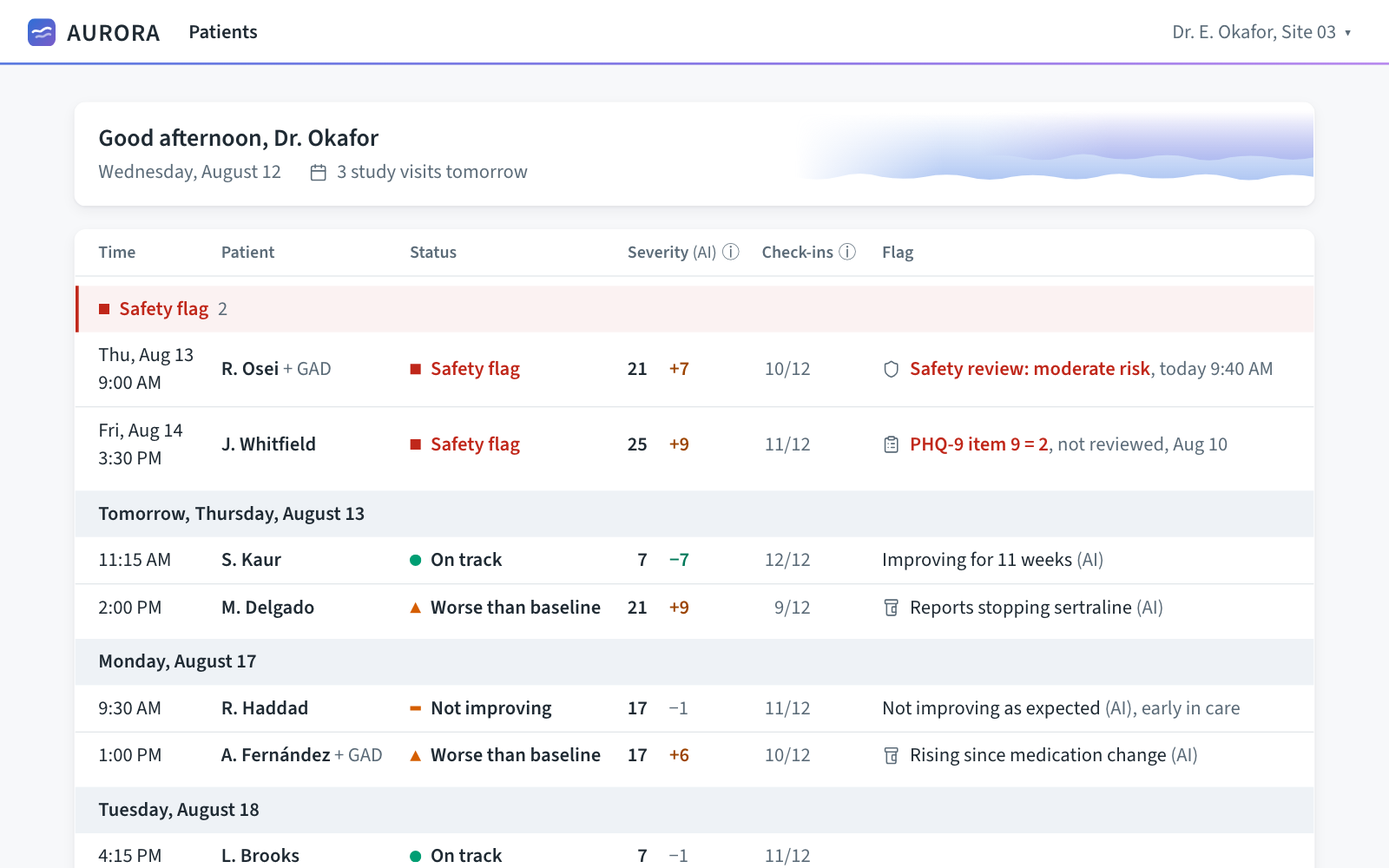
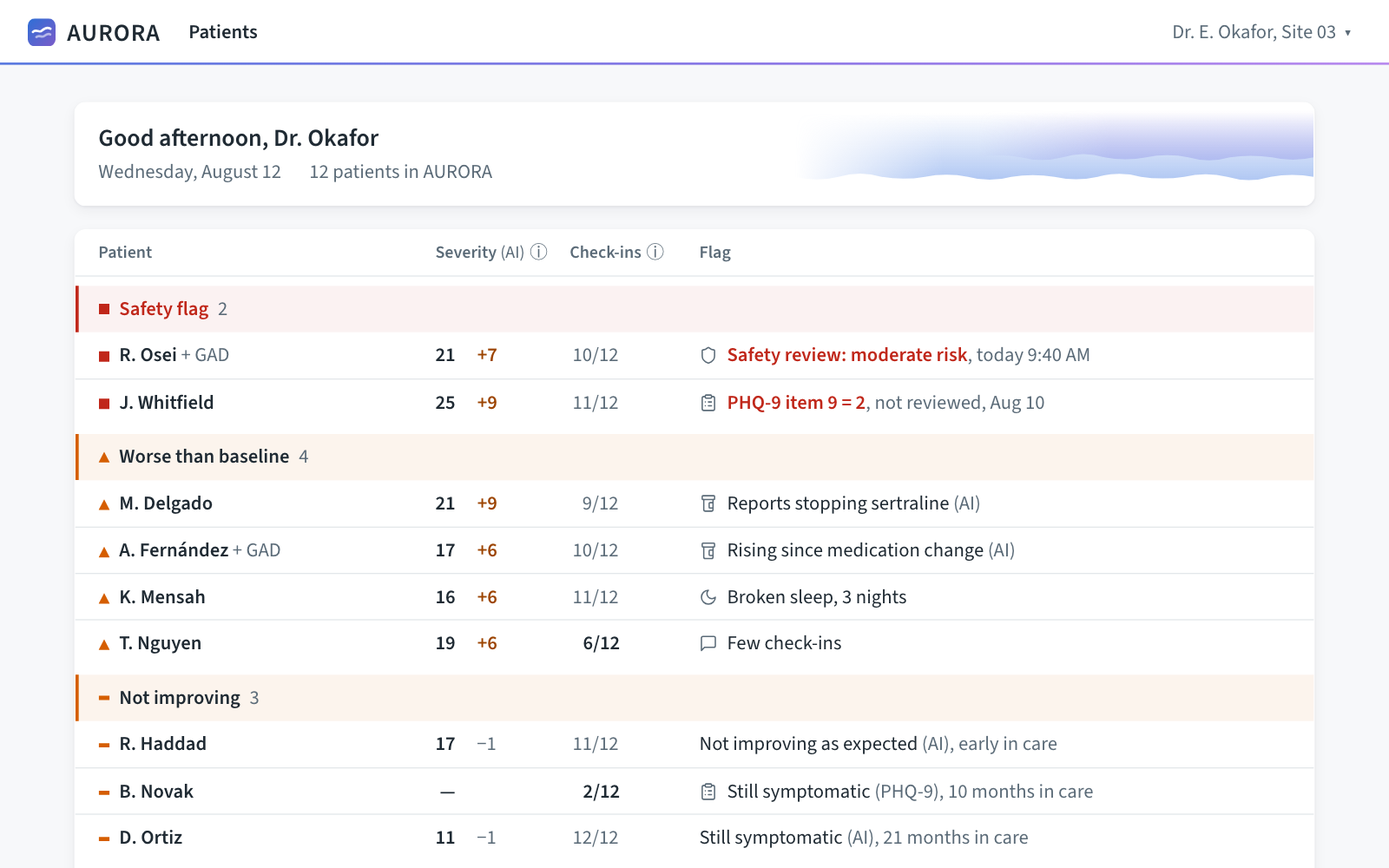
Don't assume visit dates: group the caseload by status by default
AURORA isn't assumed to link to a site's EHR, so the caseload no longer
assumes it knows patients' next visits (bead aurora-8ok). By default:
- patients are grouped by status, Safety flag first, by last name within
  each group, with no Time or Next visit column;
- the greeting band gives the number of patients ("12 patients in
  AURORA") instead of the visits;
- the patient page has no next-visit line, and the chart has no Visits
  row and keeps its original height.

The review strip's new Visit dates switch (Not known, Known; &dates=1)
shows a site that has them, from its EHR or from patients reporting their
next visit in check-ins. The List switch, by next visit or by status,
appears only then.

notes.js records the setting with each note and restores it when a note
is opened; notes from before the switch saw visit dates. The CSV export
has a visit_dates column. DESIGN.md, CHANGELOG, MAINTAINING, the README
and the landing page's v3 image are updated.

diff --git a/AURORA Dashboard v3.dc.html b/AURORA Dashboard v3.dc.html
@@ -129,6 +129,8 @@ a{color:var(--accent);text-decoration:none;cursor:pointer}a:hover{text-decoratio
 .list{background:var(--surface);border:1px solid var(--line);border-radius:var(--r)}
 .list.by-status{--cols:minmax(160px,1.2fr) 156px 100px 80px minmax(0,2.6fr)}
 .list.by-visit{--cols:84px minmax(130px,1fr) 170px 100px 80px minmax(0,2.4fr)}
+/* Without visit dates: no Next visit column */
+.list.by-status.no-dates{--cols:minmax(160px,1.4fr) 100px 80px minmax(0,2.6fr)}
 .lrow{display:grid;grid-template-columns:var(--cols);column-gap:16px;align-items:center;min-height:40px;padding:0 20px}
 .lhead{font-size:var(--fs-sm);font-weight:600;color:var(--muted);border-bottom:1px solid var(--line)}
 .grp{display:flex;align-items:center;padding:20px 20px 6px;font-size:var(--fs-sm);font-weight:600;letter-spacing:.06em;text-transform:uppercase}
@@ -397,6 +399,7 @@ a{color:var(--accent);text-decoration:none;cursor:pointer}a:hover{text-decoratio
 .big .page,.big .band-inner{max-width:70rem}
 .big .list.by-status{--cols:minmax(170px,1.2fr) 184px 100px 96px minmax(0,2.6fr)}
 .big .list.by-visit{--cols:90px minmax(140px,1fr) 172px 100px 88px minmax(0,2.4fr)}
+.big .list.by-status.no-dates{--cols:minmax(170px,1.4fr) 100px 96px minmax(0,2.6fr)}
 .big.distinct .pt-sections{grid-template-columns:minmax(0,1fr) 21rem}
 .big .safety-note{font-size:var(--fs-md);line-height:var(--lh-md)}
 .big .foot{font-size:var(--fs-md);line-height:var(--lh-md)}
@@ -471,6 +474,7 @@ a{color:var(--accent);text-decoration:none;cursor:pointer}a:hover{text-decoratio
   .thr-tag .tt-wrap{margin-left:0}
   .big .chart .noest{font-size:22px}
   .list.by-status,.big .list.by-status{--cols:minmax(0,1.3fr) minmax(0,1.2fr) 5rem 5rem}
+  .list.by-status.no-dates,.big .list.by-status.no-dates{--cols:minmax(0,1.6fr) 5rem 5rem}
   .list.by-visit,.big .list.by-visit{--cols:5.5rem minmax(0,1.2fr) minmax(0,1.3fr) 5rem 5rem}
   .lrow{row-gap:2px}
   .row{padding-top:8px;padding-bottom:8px}
@@ -591,7 +595,8 @@ a{color:var(--accent);text-decoration:none;cursor:pointer}a:hover{text-decoratio
   <div class="review no-print">
     <span class="review-label">Review: not part of the design</span>
     <span class="review-group"><span class="review-k">Page</span><span class="seg"><sc-for list="{{ viewTabs }}" as="t"><button class="{{ t.cls }}" onClick="{{ t.pick }}">{{ t.label }}</button></sc-for></span></span>
-    <sc-if value="{{ onList }}"><span class="review-group"><span class="review-k">List</span><span class="seg"><sc-for list="{{ orderTabs }}" as="t"><button class="{{ t.cls }}" onClick="{{ t.pick }}">{{ t.label }}</button></sc-for></span></span></sc-if>
+    <sc-if value="{{ datesCtl }}"><span class="review-group"><span class="review-k">Visit dates</span><span class="seg"><sc-for list="{{ datesTabs }}" as="t"><button class="{{ t.cls }}" onClick="{{ t.pick }}">{{ t.label }}</button></sc-for></span></span></sc-if>
+    <sc-if value="{{ orderCtl }}"><span class="review-group"><span class="review-k">List</span><span class="seg"><sc-for list="{{ orderTabs }}" as="t"><button class="{{ t.cls }}" onClick="{{ t.pick }}">{{ t.label }}</button></sc-for></span></span></sc-if>
     <sc-if value="{{ onCheckin }}"><span class="review-group"><span class="review-k">Example</span><span class="seg"><sc-for list="{{ exTabs }}" as="t"><button class="{{ t.cls }}" onClick="{{ t.pick }}">{{ t.label }}</button></sc-for></span></span></sc-if>
     <span class="review-group"><span class="review-k">Look</span><span class="seg"><sc-for list="{{ lookTabs }}" as="t"><button class="{{ t.cls }}" onClick="{{ t.pick }}">{{ t.label }}</button></sc-for></span></span>
     <sc-if value="{{ greetCtl }}"><span class="review-group"><span class="review-k">Greeting</span><span class="seg"><sc-for list="{{ heroTabs }}" as="t"><button class="{{ t.cls }}" onClick="{{ t.pick }}">{{ t.label }}</button></sc-for></span></span></sc-if>
@@ -647,7 +652,7 @@ a{color:var(--accent);text-decoration:none;cursor:pointer}a:hover{text-decoratio
       <div class="lrow lhead">
         <sc-if value="{{ byVisit }}"><span>Time</span></sc-if>
         <span>Patient</span>
-        <sc-if value="{{ byStatus }}"><span>Next visit</span></sc-if>
+        <sc-if value="{{ visitCol }}"><span>Next visit</span></sc-if>
         <sc-if value="{{ byVisit }}"><span>Status</span></sc-if>
         <span>Severity <span class="ai">(AI)</span> <span class="tt-wrap" onMouseEnter="{{ tips.sev.enter }}" onMouseLeave="{{ tips.sev.leave }}"><button type="button" class="{{ tips.sev.btnCls }}" aria-label="About severity" aria-describedby="tt-sev" onClick="{{ tips.sev.toggle }}" onFocus="{{ tips.sev.focus }}" onBlur="{{ tips.sev.blur }}">ⓘ</button><span id="tt-sev" role="tooltip" class="{{ tips.sev.cls }}"><sc-for list="{{ tips.sev.lines }}" as="l"><span class="{{ l.cls }}">{{ l.text }}</span></sc-for></span></span></span>
         <span>Check-ins <span class="tt-wrap" onMouseEnter="{{ tips.ci.enter }}" onMouseLeave="{{ tips.ci.leave }}"><button type="button" class="{{ tips.ci.btnCls }}" aria-label="About check-ins" aria-describedby="tt-ci" onClick="{{ tips.ci.toggle }}" onFocus="{{ tips.ci.focus }}" onBlur="{{ tips.ci.blur }}">ⓘ</button><span id="tt-ci" role="tooltip" class="{{ tips.ci.cls }}"><sc-for list="{{ tips.ci.lines }}" as="l"><span class="{{ l.cls }}">{{ l.text }}</span></sc-for></span></span></span>
@@ -679,7 +684,7 @@ a{color:var(--accent);text-decoration:none;cursor:pointer}a:hover{text-decoratio
             </sc-if>
             <sc-if value="{{ byVisit }}"><span class="num"><sc-if value="{{ p.pinDate }}"><span class="pin-date">{{ p.pinDate }}</span></sc-if>{{ p.timeText }}</span></sc-if>
             <span><sc-if value="{{ byStatus }}"><svg class="mk {{ p.stCls }}" viewBox="0 0 10 10"><path d="{{ p.shape }}" fill="currentColor" fill-rule="evenodd"></path><path d="{{ p.shape2 }}" fill="currentColor"></path></svg></sc-if><span class="pt-name">{{ p.name }}</span><sc-if value="{{ p.dx }}"> <span class="muted">{{ p.dx }}</span></sc-if></span>
-            <sc-if value="{{ byStatus }}"><span class="num {{ p.visitCls }}">{{ p.visitText }}</span></sc-if>
+            <sc-if value="{{ visitCol }}"><span class="num {{ p.visitCls }}">{{ p.visitText }}</span></sc-if>
             <sc-if value="{{ byVisit }}"><span class="status {{ p.stCls }}"><svg class="mk" viewBox="0 0 10 10"><path d="{{ p.shape }}" fill="currentColor" fill-rule="evenodd"></path><path d="{{ p.shape2 }}" fill="currentColor"></path></svg>{{ p.stLabel }}</span></sc-if>
             <span class="num"><span class="sev">{{ p.sevText }}</span><span class="chg {{ p.deltaCls }}">{{ p.deltaText }}</span></span>
             <span class="num {{ p.ciCls }}"><span class="ci">{{ p.checkins }}</span></span>
@@ -771,7 +776,7 @@ a{color:var(--accent);text-decoration:none;cursor:pointer}a:hover{text-decoratio
       <h2 class="h2">Trend<span class="muted">{{ pt.trendSub }}</span></h2>
       <div class="chart-wrap">
         <div class="chart-box" onMouseLeave="{{ hoverOff }}">
-        <svg class="chart" viewBox="0 0 880 324" role="img" aria-label="{{ ch.aria }}" tabindex="0" onKeyDown="{{ chartKey }}" onFocus="{{ chartFocus }}" onBlur="{{ hoverOff }}">
+        <svg class="chart" viewBox="{{ ch.vb }}" role="img" aria-label="{{ ch.aria }}" tabindex="0" onKeyDown="{{ chartKey }}" onFocus="{{ chartFocus }}" onBlur="{{ hoverOff }}">
           <sc-if value="{{ ch.showZone }}"><rect class="zone" x="{{ ch.L }}" y="{{ ch.T }}" width="{{ ch.zoneW }}" height="{{ ch.zoneH }}"></rect></sc-if>
           <sc-if value="{{ ch.hasExp }}"><polygon class="expband" points="{{ ch.expPts }}"></polygon><text x="{{ ch.endX }}" y="{{ ch.expLabelY }}">Expected range</text></sc-if>
           <sc-for list="{{ ch.ticks }}" as="k"><line class="{{ k.cls }}" x1="{{ ch.L }}" x2="{{ ch.R }}" y1="{{ k.y }}" y2="{{ k.y }}"></line><text x="{{ ch.tickX }}" y="{{ k.ty }}" text-anchor="end">{{ k.label }}</text></sc-for>
@@ -799,7 +804,7 @@ a{color:var(--accent);text-decoration:none;cursor:pointer}a:hover{text-decoratio
             <sc-if value="{{ hv.hasCiDot }}"><circle class="hv-ci" cx="{{ hv.x }}" cy="{{ hv.ciY }}" r="5"></circle></sc-if>
             <sc-if value="{{ hv.hasPhqDot }}"><circle class="hv-phq" cx="{{ hv.x }}" cy="{{ hv.phqY }}" r="8"></circle></sc-if>
           </sc-if>
-          <sc-for list="{{ ch.hits }}" as="w"><rect class="hit" x="{{ w.x }}" y="0" width="{{ w.w }}" height="324" onMouseEnter="{{ w.enter }}" onClick="{{ w.click }}"></rect></sc-for>
+          <sc-for list="{{ ch.hits }}" as="w"><rect class="hit" x="{{ w.x }}" y="0" width="{{ w.w }}" height="{{ ch.H }}" onMouseEnter="{{ w.enter }}" onClick="{{ w.click }}"></rect></sc-for>
         </svg>
         <sc-if value="{{ ch.hasEst }}"><div class="thr-tag" style="{{ ch.thrTagStyle }}">{{ ch.thrHead }}<span class="thr-last">{{ ch.thrTail }}<span class="tt-wrap no-print" onMouseEnter="{{ tips.thr.enter }}" onMouseLeave="{{ tips.thr.leave }}"><button type="button" class="{{ tips.thr.btnCls }}" aria-label="About the Worse than baseline line" aria-describedby="tt-thr" onClick="{{ tips.thr.toggle }}" onFocus="{{ tips.thr.focus }}" onBlur="{{ tips.thr.blur }}">ⓘ</button><span id="tt-thr" role="tooltip" class="{{ tips.thr.cls }}"><sc-for list="{{ tips.thr.lines }}" as="l"><span class="{{ l.cls }}">{{ l.text }}</span></sc-for></span></span></span></div></sc-if>
         <sc-if value="{{ hv.show }}">
@@ -1532,7 +1537,7 @@ const HO_TEXT = {
 
 class Component extends DCLogic {
   // cday: the check-in on the check-in page; cAt and pAt: the summary point and transcript passage to mark; tx: transcript open
-  state = { view: 'list', pid: 'delgado', order: 'visit', icons: true, distinct: true, big: true, clock24: false, menuOpen: false, hoverDay: null, peek: null, tip: null, tipPinned: false, drivers: false, refined: true, hero: true, factsOpen: false, disc: {}, cday: null, cAt: null, pAt: null, tx: false, hoName: '', hoOff: [], hoLang: null };
+  state = { view: 'list', pid: 'delgado', order: 'visit', icons: true, distinct: true, big: true, clock24: false, menuOpen: false, hoverDay: null, peek: null, tip: null, tipPinned: false, drivers: false, refined: true, hero: true, dates: false, factsOpen: false, disc: {}, cday: null, cAt: null, pAt: null, tx: false, hoName: '', hoOff: [], hoLang: null };
 
   componentDidMount() {
     const o = {};
@@ -1551,6 +1556,7 @@ class Component extends DCLogic {
       if (['0', '1'].includes(h.get('drivers'))) r.drivers = h.get('drivers') === '1';
       if (['current', 'refined'].includes(h.get('look'))) r.refined = h.get('look') === 'refined';
       if (['0', '1'].includes(h.get('hero'))) r.hero = h.get('hero') === '1';
+      if (['0', '1'].includes(h.get('dates'))) r.dates = h.get('dates') === '1';
       if (Object.keys(HO_TEXT).includes(h.get('lang'))) r.hoLang = h.get('lang');
       return r;
     };
@@ -1612,7 +1618,7 @@ class Component extends DCLogic {
   go(o) {
     const next = { ...this.state, ...o };
     if (next.view === 'checkin') next.cday = resolveCday(next.pid, next.cday);
-    try { history.replaceState(null, '', `#view=${next.view}&p=${next.pid}${next.view === 'checkin' ? `&d=${next.cday}` : ''}&order=${next.order}&icons=${next.icons ? 1 : 0}&style=${next.distinct ? 'distinct' : 'plain'}&text=${next.big ? 'larger' : 'current'}&clock=${next.clock24 ? 24 : 12}&look=${next.refined ? 'refined' : 'current'}&hero=${next.hero ? 1 : 0}`); } catch (e) { /* sandboxed preview */ }
+    try { history.replaceState(null, '', `#view=${next.view}&p=${next.pid}${next.view === 'checkin' ? `&d=${next.cday}` : ''}&order=${next.order}&dates=${next.dates ? 1 : 0}&icons=${next.icons ? 1 : 0}&style=${next.distinct ? 'distinct' : 'plain'}&text=${next.big ? 'larger' : 'current'}&clock=${next.clock24 ? 24 : 12}&look=${next.refined ? 'refined' : 'current'}&hero=${next.hero ? 1 : 0}`); } catch (e) { /* sandboxed preview */ }
     clearTimeout(this.peekT);
     clearTimeout(this.tipT);
     // The handout's name, ticks and language belong to one printout: another page or patient starts fresh
@@ -1716,9 +1722,13 @@ class Component extends DCLogic {
       };
     });
 
-    // Caseload: grouped by status (visit order inside each group), or one list in visit order
-    const byStatus = s.order === 'status';
+    // Caseload: grouped by status (visit order inside each group), or one list in visit order. Without visit dates
+    // (the default: AURORA isn't assumed to link to a site's EHR, aurora-8ok), grouped by status, by last name inside each
+    // group, with no Time or Next visit column.
+    const byStatus = s.order === 'status' || !s.dates;
     const byVisitOrder = [...all].sort((a, b) => a.visitRank - b.visitRank);
+    const lastName = (p) => p.name.replace(/^\S+\s+/, '');
+    const byName = [...all].sort((a, b) => lastName(a).localeCompare(lastName(b)));
     // By next visit: one group per day, headed by the full date, and Today or Tomorrow; Not scheduled last
     const dayHead = (key) => {
       if (!key) return { title: 'Not scheduled', rel: '' };
@@ -1732,7 +1742,7 @@ class Component extends DCLogic {
     // By next visit, safety flags still come first: a Safety flag group above the day headers, its rows carrying the visit date
     const pinned = byVisitOrder.filter((p) => p.status === 'safety').map((p) => ({ ...p, pinDate: p.dayKey || 'Not scheduled' }));
     const groups = (byStatus
-      ? GROUP_ORDER.map((k) => statusGroup(k, byVisitOrder.filter((p) => p.status === k)))
+      ? GROUP_ORDER.map((k) => statusGroup(k, (s.dates ? byVisitOrder : byName).filter((p) => p.status === k)))
       : [statusGroup('safety', pinned), ...dayGroups(byVisitOrder.filter((p) => p.status !== 'safety'))])
       .filter((g) => g.rows.length).map((g) => ({ ...g, count: String(g.rows.length) }));
 
@@ -1765,8 +1775,10 @@ class Component extends DCLogic {
       date: `${DAY_FULL[DOW[TODAY.getDay()]]}, ${MONTHS_FULL[TODAY.getMonth()]} ${TODAY.getDate()}`,
       dateShort: `${DOW[TODAY.getDay()]}, ${MONTHS[TODAY.getMonth()]} ${TODAY.getDate()}`,
       // Study visits, with the calendar icon: "study", because clinicians also see patients who aren't in AURORA.
-      // Safety flags aren't repeated here: their group is pinned first, just below.
-      facts: todayN || tomorrowN ? [{ cls: 'greet-fact', mark: icon('calendar'),
+      // Without visit dates, the number of patients instead. Safety flags aren't repeated here: their group is pinned
+      // first, just below.
+      facts: !s.dates ? [{ cls: 'greet-fact', mark: null, text: `${countOf(all.length, 'patient')} in AURORA` }]
+        : todayN || tomorrowN ? [{ cls: 'greet-fact', mark: icon('calendar'),
         text: todayN && tomorrowN ? `${countOf(todayN, 'study visit')} today, ${tomorrowN} tomorrow` : todayN ? `${countOf(todayN, 'study visit')} today` : `${countOf(tomorrowN, 'study visit')} tomorrow` }] : []
     };
 
@@ -1785,7 +1797,7 @@ class Component extends DCLogic {
     const pt = {
       ...P,
       initials: P.name.replace(/\./g, '').split(/\s+/).filter(Boolean).map((w) => w[0]).join('').slice(0, 2).toUpperCase(),
-      headFacts: [P.visitRank === NOT_SCHEDULED ? 'No visit scheduled' : 'Next visit ' + tm(P.visit), `${P.weeksIn} weeks in AURORA`].map((text, i) => ({ text, sep: i > 0 })),
+      headFacts: [...(s.dates ? [P.visitRank === NOT_SCHEDULED ? 'No visit scheduled' : 'Next visit ' + tm(P.visit)] : []), `${P.weeksIn} weeks in AURORA`].map((text, i) => ({ text, sep: i > 0 })),
       sevNow: P.estNow == null ? '—' : String(P.estNow),
       // Show ± unless the interval runs off the 0–27 scale; then show the clipped range
       uncText: P.estNow == null ? '' : (hi - P.estNow === uncNow && P.estNow - lo === uncNow) ? `± ${uncNow}` : `range ${lo}–${hi}`,
@@ -1837,8 +1849,8 @@ class Component extends DCLogic {
 
     // Chart geometry: PHQ-9 scale 0–27 with a numeric axis, weekly AI estimates, PHQ-9 every 2 weeks.
     // The time axis starts when the patient joined, up to the last 12 weeks.
-    // Under the plot: the visits row, then item 9 and the dates (the viewBox is 880 × CH_H)
-    const L = 72, R = 740, TOP = 32, BOT = 232, CH_H = 324;
+    // Under the plot: the visits row (with visit dates only), then item 9 and the dates (the viewBox is 880 × CH_H)
+    const L = 72, R = 740, TOP = 32, BOT = 232, CH_H = s.dates ? 324 : 300;
     const last = WEEKS.length - 1;
     const x0 = Math.max(0, last - P.weeksIn);
     const X = (i) => L + ((i - x0) * (R - L)) / (last - x0);
@@ -1886,10 +1898,11 @@ class Component extends DCLogic {
           iconEl: iconAt(e.icon, flip ? ex - 20 : ex + 6, TOP - 23), label: T(e.label) };
       }),
       phq: PHQ_WEEKS.map((w, k) => (P.phq[k] == null || !inRange(w) ? null : { cx: f(X(w)), cy: f(Y(P.phq[k])) })).filter(Boolean),
+      vb: `0 0 880 ${CH_H}`, H: CH_H,
       vY: 262, vY1: 250, vY2: 263,
-      i9Y: 286,
+      i9Y: s.dates ? 286 : 262,
       item9: PHQ_WEEKS.map((w, k) => (P.item9[k] == null || !inRange(w) ? null : { x: f(X(w)), cls: P.item9[k] > 0 ? 'i9-pos' : '', label: T(P.item9[k]) })).filter(Boolean),
-      dateY: 314,
+      dateY: s.dates ? 314 : 290,
       dates: (x0 > 0 ? [x0, ...PHQ_WEEKS.filter((w) => w > x0)] : PHQ_WEEKS).map((w) => ({ x: f(X(w)), label: T(WEEKS[w]) }))
     };
 
@@ -1898,7 +1911,7 @@ class Component extends DCLogic {
     const d0 = x0 * 7, dLast = last * 7;
     const XD = (d) => L + ((d - d0) * (R - L)) / (dLast - d0);
     // Clinic visits: short marks in their own row under the plot, in the patient's usual slot
-    const visitDays = visitDaysOf(P).filter((d) => d >= d0 && d <= dLast);
+    const visitDays = s.dates ? visitDaysOf(P).filter((d) => d >= d0 && d <= dLast) : [];
     const visitTime = (/, (\d{1,2}:\d{2})$/.exec(P.visit) || [])[1];
     ch.visits = visitDays.map((d) => ({ x: f(XD(d)) }));
     ch.hasVisits = visitDays.length > 0;
@@ -2320,13 +2333,16 @@ class Component extends DCLogic {
         tab('By next visit', !byStatus, () => this.go({ order: 'visit' }))
       ],
       byStatus, byVisit: !byStatus, groups, peek,
+      // Visit dates: off by default; on shows the list by next visit, the next-visit line and the chart's visits
+      visitCol: byStatus && s.dates, orderCtl: s.view === 'list' && s.dates, datesCtl: s.view === 'list' || s.view === 'patient',
+      datesTabs: [tab('Not known', !s.dates, () => this.go({ dates: false })), tab('Known', s.dates, () => this.go({ dates: true }))],
       hero, heroOn: s.refined && s.hero && s.view === 'list', refined: s.refined,
       lookTabs: [tab('Refined', s.refined, () => this.go({ refined: true })), tab('Original', !s.refined, () => this.go({ refined: false }))],
       heroTabs: [tab('On', s.hero, () => this.go({ hero: true })), tab('Off', !s.hero, () => this.go({ hero: false }))],
       greetCtl: s.refined && s.view === 'list',
       peekOut: () => { clearTimeout(this.peekT); this.peekT = setTimeout(() => this.setState({ peek: null }), 150); },
       peekOff: () => { clearTimeout(this.peekT); this.setState({ peek: null }); },
-      listCls: 'list ' + (byStatus ? 'by-status' : 'by-visit'),
+      listCls: 'list ' + (byStatus ? 'by-status' : 'by-visit') + (s.dates ? '' : ' no-dates'),
       tips,
       drv, toggleDrivers: () => this.setState({ drivers: !s.drivers }),
       safetyShape: STATUS.safety.shape,

diff --git a/notes.js b/notes.js
@@ -20,7 +20,7 @@
   const KINDS = [['idea', 'Idea'], ['problem', 'Problem'], ['question', 'Question'], ['like', 'Like']];
   const ROLES = ['Clinician', 'Supervisor', 'Researcher', 'Lived experience', 'Technology team', 'Other'];
   const MONTHS = ['Jan', 'Feb', 'Mar', 'Apr', 'May', 'Jun', 'Jul', 'Aug', 'Sep', 'Oct', 'Nov', 'Dec'];
-  const DEFAULT_STATE = { view: 'list', pid: 'delgado', order: 'visit', distinct: true, big: true, icons: true, clock24: false, drivers: false, refined: false, hero: true, cday: null };
+  const DEFAULT_STATE = { view: 'list', pid: 'delgado', order: 'visit', distinct: true, big: true, icons: true, clock24: false, drivers: false, refined: false, hero: true, dates: true, cday: null };
   const CS = document.currentScript;
   const VERSION = (CS && CS.dataset.version) || '';
   // A plain page such as the landing page names itself (data-page) and has no mockup state: no patient or settings
@@ -226,7 +226,7 @@
     return {
       version: VERSION, view: page.view, pid: page.view === 'list' || STATIC ? null : page.pid, pname: STATIC ? '' : patientName(), pageKey: pageKey(),
       commit: BUILD.commit, built: BUILD.built,
-      ctx: STATIC ? {} : { order: page.order, style: page.distinct ? 'distinct' : 'plain', text: page.big ? 'larger' : 'current', icons: !!page.icons, clock: page.clock24 ? 24 : 12, drivers: !!page.drivers, look: page.refined ? 'refined' : 'current', hero: page.hero !== false, day: page.view === 'checkin' ? page.cday || null : null, lang: handoutLang() }
+      ctx: STATIC ? {} : { order: page.order, dates: page.dates !== false, style: page.distinct ? 'distinct' : 'plain', text: page.big ? 'larger' : 'current', icons: !!page.icons, clock: page.clock24 ? 24 : 12, drivers: !!page.drivers, look: page.refined ? 'refined' : 'current', hero: page.hero !== false, day: page.view === 'checkin' ? page.cday || null : null, lang: handoutLang() }
     };
   }
   // After posting: a reviewer sees others' notes on a page once they have added one there. Facilitators see all.
@@ -610,6 +610,7 @@
     if (n.view === 'handout' && c.lang) hp.set('lang', c.lang);
     hp.set('look', c.look || 'current');
     hp.set('hero', c.hero === false ? '0' : '1');
+    hp.set('dates', c.dates === false ? '0' : '1'); // notes from before the switch saw visit dates
     ui.focus = n.id;
     if (n.version !== VERSION && PAGE_FILES[n.version]) { location.href = `${PAGE_FILES[n.version]}${location.search}#${hp}&note=${n.id}`; return; }
     pendingScroll = n.id;
@@ -727,12 +728,12 @@
       return /[",\r\n]/.test(s) ? `"${s.replace(/"/g, '""')}"` : s;
     };
     const iso = (ms) => (ms ? new Date(ms).toISOString().replace('T', ' ').slice(0, 16) : '');
-    const head = ['id', 'created_utc', 'name', 'role', 'kind', 'text', 'reply_to', 'plus_ones', 'resolved', 'resolved_by', 'version', 'page', 'patient', 'part', 'x', 'y', 'order', 'style', 'text_size', 'icons', 'clock', 'drivers_open', 'look', 'commit', 'built_utc', 'checkin_day', 'handout_language'];
+    const head = ['id', 'created_utc', 'name', 'role', 'kind', 'text', 'reply_to', 'plus_ones', 'resolved', 'resolved_by', 'version', 'page', 'patient', 'part', 'x', 'y', 'order', 'style', 'text_size', 'icons', 'clock', 'drivers_open', 'look', 'commit', 'built_utc', 'checkin_day', 'handout_language', 'visit_dates'];
     const rows = [...m.visible, ...m.visible.flatMap((n) => m.replies(n.id))].sort(byTime).map((n) => {
       const c = n.ctx || {};
       return [n.id, iso(n.createdAt), n.name, n.role, n.kind, n.text, n.parent || '', Object.keys(n.plus || {}).length, n.resolved ? 'yes' : '', n.resolvedBy || '',
         n.version, VIEW_NAMES[n.view] || n.view, n.pname || n.pid || '', n.anchorLabel, n.x == null ? '' : n.x.toFixed(3), n.y == null ? '' : n.y.toFixed(3),
-        c.order, c.style, c.text, c.icons, c.clock, c.drivers, c.look || 'current', (n.commit || '').slice(0, 7), n.built || '', c.day || '', c.lang || ''];
+        c.order, c.style, c.text, c.icons, c.clock, c.drivers, c.look || 'current', (n.commit || '').slice(0, 7), n.built || '', c.day || '', c.lang || '', c.dates === false ? 'not known' : 'known'];
     });
     const csv = [head, ...rows].map((r) => r.map(cell).join(',')).join('\r\n');
     const d = new Date(), pad = (v) => String(v).padStart(2, '0');

diff --git a/DESIGN.md b/DESIGN.md
@@ -155,11 +155,12 @@ The striped "Review controls" strip is scaffolding for reviewers. Its colors are
 - **Change:** a signed number after the value ("21 +9"), measured from the patient's own baseline. It is colored (`worse-text` or `stable-text`, weight 600) only when it is 5 or more points; otherwise muted. Don't use ▲▼ arrows: the triangle is already the worse-than-baseline status shape.
 - **Uncertainty:** "± 4", or the clipped range ("range 22–27") when the interval runs past the 0–27 scale.
 - **Caseload order:**
-  - **By next visit** (the default): one group per day, with a "Not scheduled" group last. Each day has a full-width header giving the full date, after "Today" or "Tomorrow" where it applies ("Tomorrow, Thursday, August 13"). Day headers carry no count: with safety-flagged visits pinned above, a count disagrees either with the rows below it or with the greeting band (review note, October 26). The date is in the header, so the rows show only the time, under the column heading "Time". Safety-flagged patients come first, in a Safety flag group pinned above the day headers. No day header covers those rows, so each of them shows its visit date above the time.
+  - **Visit dates** (v3, from October 26): AURORA isn't assumed to link to a site's EHR, so by default the caseload doesn't know when patients' next visits are (bead aurora-8ok). Without them, patients are grouped by status, by last name within each group. There is no Time or Next visit column, the greeting band gives the number of patients, and the patient page has no next-visit line and no Visits row on the chart. The review strip's Visit dates switch (or `&dates=1`) shows a site that has them, from its EHR or from patients reporting their next visit in check-ins; the list can then also run by next visit.
+  - **By next visit** (with visit dates, their default): one group per day, with a "Not scheduled" group last. Each day has a full-width header giving the full date, after "Today" or "Tomorrow" where it applies ("Tomorrow, Thursday, August 13"). Day headers carry no count: with safety-flagged visits pinned above, a count disagrees either with the rows below it or with the greeting band (review note, October 26). The date is in the header, so the rows show only the time, under the column heading "Time". Safety-flagged patients come first, in a Safety flag group pinned above the day headers. No day header covers those rows, so each of them shows its visit date above the time.
   - Day headers are neutral, because color means status. In the distinct style they sit on the neutral `tint`, with no edge.
-  - **Grouped by status:** Safety flag, Worse than baseline, Too few check-ins, Stable or better, with patients in visit order within each group.
+  - **Grouped by status:** Safety flag, Worse than baseline, Too few check-ins, Stable or better, with patients in visit order within each group, or by last name without visit dates.
 - **Caseload columns:** the column you look patients up by comes first, then the rest in order of importance.
-  - **Grouped by status:** Patient (with the status shape), Next visit (the order within each group), Severity, Check-ins, Flag.
+  - **Grouped by status:** Patient (with the status shape), Next visit (the order within each group; only with visit dates), Severity, Check-ins, Flag.
   - **By next visit:** Time, Patient, Status, Severity, Check-ins, Flag. Time comes first, as in a day schedule. The Status column (shape and word) stands in for the status groups.
   - Severity and Check-ins sit together, because check-ins say how far to trust the estimate.
   - Flag is last: it is the longest column, and it is empty for stable patients, so a blank never splits a row.
@@ -211,7 +212,7 @@ The striped "Review controls" strip is scaffolding for reviewers. Its colors are
   - The dashed line's label has an ⓘ explaining why the line stands out. It says that the line is where Worse than baseline begins, measured from the patient's own baseline, so it is not a severity cutoff, and that its number is a placeholder. The label is drawn in HTML over the chart, so that it can hold the ⓘ button, and is sized to match the chart's own labels. In v3 it takes two lines in the label column, with its last word kept on the same line as the ⓘ. The ⓘ doesn't print.
   - Item 9 answers are numbers under the PHQ-9 dates, in bold `safety` when above 0. Don't use badges.
   - Reported events are dashed verticals labeled with their source, e.g. "(AI)". The label sits right of the line, or left of it when it would run off the chart.
-  - **Visits** (v3): past clinic visits are short `ink-muted` marks in a Visits row under the plot, above item 9, so clinicians can read the check-ins against the sessions (review note, October 26). The readout names a visit and its time ("Visit, 2:00 PM", with the calendar icon). *(Mock data: each patient's usual slot, weekly or every 2 weeks, back to when they joined. Where visit dates come from is still open, bead aurora-8ok.)*
+  - **Visits** (v3, with visit dates only): past clinic visits are short `ink-muted` marks in a Visits row under the plot, above item 9, so clinicians can read the check-ins against the sessions (review note, October 26). The readout names a visit and its time ("Visit, 2:00 PM", with the calendar icon). *(Mock data: each patient's usual slot, weekly or every 2 weeks, back to when they joined. Where visit dates come from is still open, bead aurora-8ok.)*
   - The time axis runs from when the patient joined, up to 12 weeks.
   - In the distinct style, the area above baseline + 5 is shaded in `worse-zone`.
   - **Hover readout:** it moves one day at a time. Pointing anywhere over the chart shows a guide line, a ring on the trend line (and on the dot, on a PHQ-9 day), and a small card:
@@ -410,7 +411,7 @@ A polish pass. Since 2026-10-25 it has been v3's default look; the review strip'
   - All motion is off when the reduced-motion setting is on, in the Original look, and in print.
 - **Drivers panel:** each measure has its icon (moon, footprints, people) and its own cool hue: night indigo for sleep, daylight blue for activity, violet for contact. The hues only say which measure is which. Warm hues and greens mean status and amber is the AI estimate, so these stay cool. They pass the data-viz palette checks for small multiples: color-blind separation across all pairs (worst ΔE 15, target 8), the normal-vision floor (19, floor 15) and 3:1 contrast on white. The lines are smooth but never overshoot a week's value (monotone curves), and a soft wash fills the gap between each line and its usual level. Each title sits on its own line above its chart, so the chart keeps the trend's left edge and the weeks line up. *(Amends the drivers panel's ink-only rule if adopted.)*
 - **Greeting band** (Patients page only; the review strip's Greeting switch or `&hero=0` hides it):
-  - **Content:** "Good morning, Dr. Okafor", then the date and the study visits today or tomorrow ("3 study visits tomorrow", since clinicians also see patients who aren't in AURORA), with the calendar icon. Safety flags aren't repeated here: their group is pinned first, just below, and a second red mark so close would compete with it. Space separates the facts, not middle dots, and screen readers hear them as sentences.
+  - **Content:** "Good morning, Dr. Okafor", then the date and the study visits today or tomorrow ("3 study visits tomorrow", since clinicians also see patients who aren't in AURORA), with the calendar icon. Without visit dates, the number of patients instead ("12 patients in AURORA"), with no icon. Safety flags aren't repeated here: their group is pinned first, just below, and a second red mark so close would compete with it. Space separates the facts, not middle dots, and screen readers hear them as sentences.
   - **Layout:** the text starts where the list's does (a 1 px transparent border and 20 px of padding). The art takes its own column to the right of the text: at most 28rem wide, anchored right, fading in over 8rem, and hidden below 52rem, so text never sits on it. On phones (below 32rem) the date shortens to "Wed, Aug 12", so the band stays two lines; screen readers still hear the full date.
   - **Art:** two soft aurora curtains in pale blue and violet, the violet one feathering in behind the blue. Their lower edges are level and undulate gently: edges that rose across the band would read as a worsening trend, in a dashboard where a rising line means worse. Static rays were tried and dropped, because on a white band they read as a blurred bar chart.
   - **Time of day:** the curtains are shorter and paler in the morning and longer and deeper toward evening, but never heavier. Each hour's opacities keep the darkest pixel near 1.8:1 against white.

diff --git a/CHANGELOG.md b/CHANGELOG.md
@@ -28,6 +28,7 @@ v2, changed to follow the theoretical model (`Theoretical model/` in the project
   - **Patient page:** "AURORA data at this visit" moves up to the foot of the summary band, as two tick boxes, "The patient raised it" and "I raised it", as the clinical group's dashboard suggestions asked; each patient keeps its own ticks. Print has a printer icon. The trend chart shows past clinic visits as marks in a Visits row under the plot, and the readout names a visit and its time.
   - **Model Facts:** the text no longer runs out of the box.
   - **Patient handout:** the note about the check-ins no longer reminds patients that they can stop, in English or Spanish.
+  - **Visit dates:** the caseload no longer assumes them, because AURORA isn't assumed to link to a site's EHR. By default, patients are grouped by status, by last name within each group, with no Time or Next visit column; the greeting band gives the number of patients; and the patient page has no next-visit line and no Visits row on the chart. The review strip's new Visit dates switch shows a site that has them, from its EHR or from patients reporting their next visit in check-ins.
 
 ## v2: redesign
 

diff --git a/README.md b/README.md
@@ -9,7 +9,7 @@ This public link is for viewing. To leave notes the group can see, you need the 
 ## What's in the latest version
 
 v3 has four pages:
-- **Patients:** the caseload, by next visit or grouped by status, with safety flags always first. Resting the pointer on a row shows a quick summary.
+- **Patients:** the caseload, grouped by status, with safety flags always first. Where a site has visit dates, it can also run by next visit. Resting the pointer on a row shows a quick summary.
 - **Patient page:** how the patient is doing and what has changed. The patient's own PHQ-9 sits beside the AI estimate, the trend chart can be read day by day, and goals are in the patient's words. Sleep, activity and contact open on demand. The page prints as a one-page session brief.
 - **Check-in** (draft): what happened at one check-in, and how much weight to give it. After a safety flag, the page also shows what the protocol asks. The IRB has yet to decide what clinicians may see of the conversations.
 - **Patient handout:** a plain-language page to go through with the patient, then print, in the patient's language. A. Fernández's is in Spanish.

diff --git a/MAINTAINING.md b/MAINTAINING.md
@@ -11,7 +11,7 @@ Notes for whoever edits the mockups. What they are is in the [README](README.md)
 ## Deep links
 
 A link can open a specific page and settings:
-- `#view=list&order=status` (`order=visit`, by next visit, is the default)
+- `#view=list&dates=1` shows visit dates, which are off by default (the list is then grouped by status, by last name). With them on, `&order=visit` (by next visit, the default) or `&order=status`.
 - `#view=patient&p=delgado`
 - `#view=handout&p=delgado`; `#view=handout&p=fernandez&lang=en` (v3: the handout in English for a patient whose check-ins are in Spanish)
 - `#view=checkin&p=delgado&d=2026-08-10` (v3: one check-in; without `&d=`, the patient's example or latest check-in)
